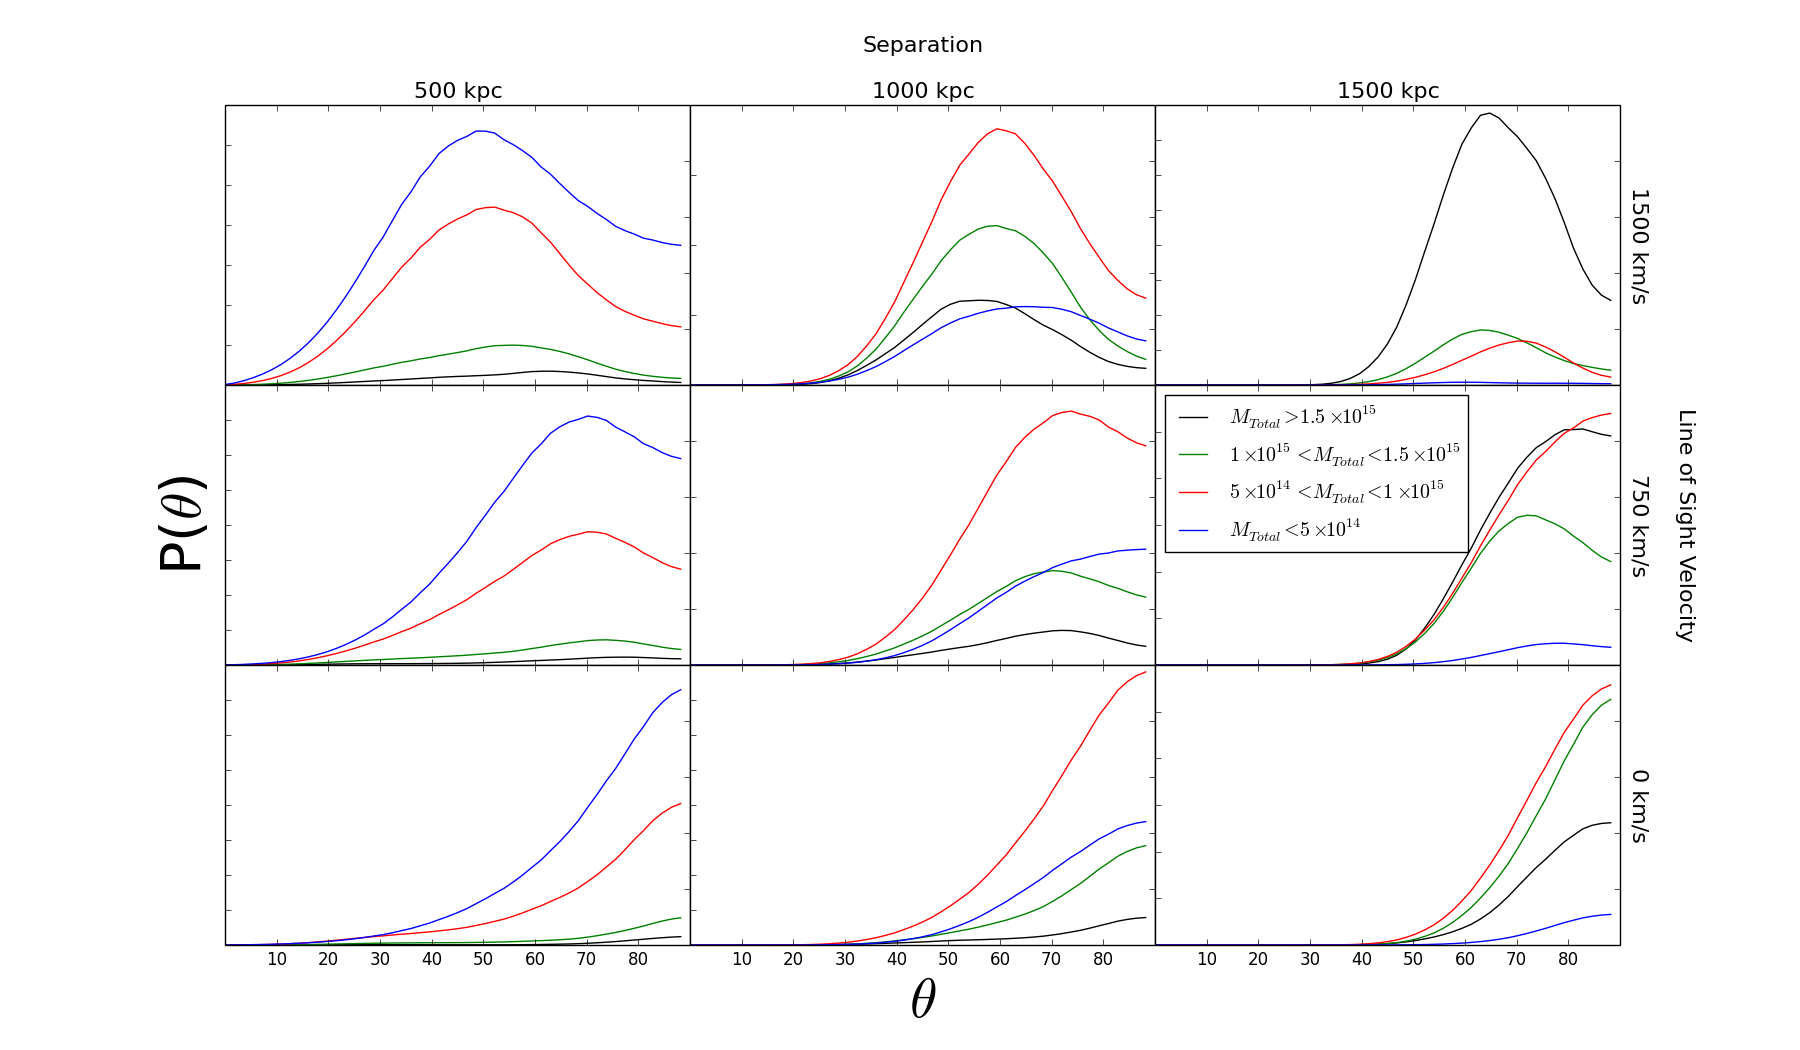
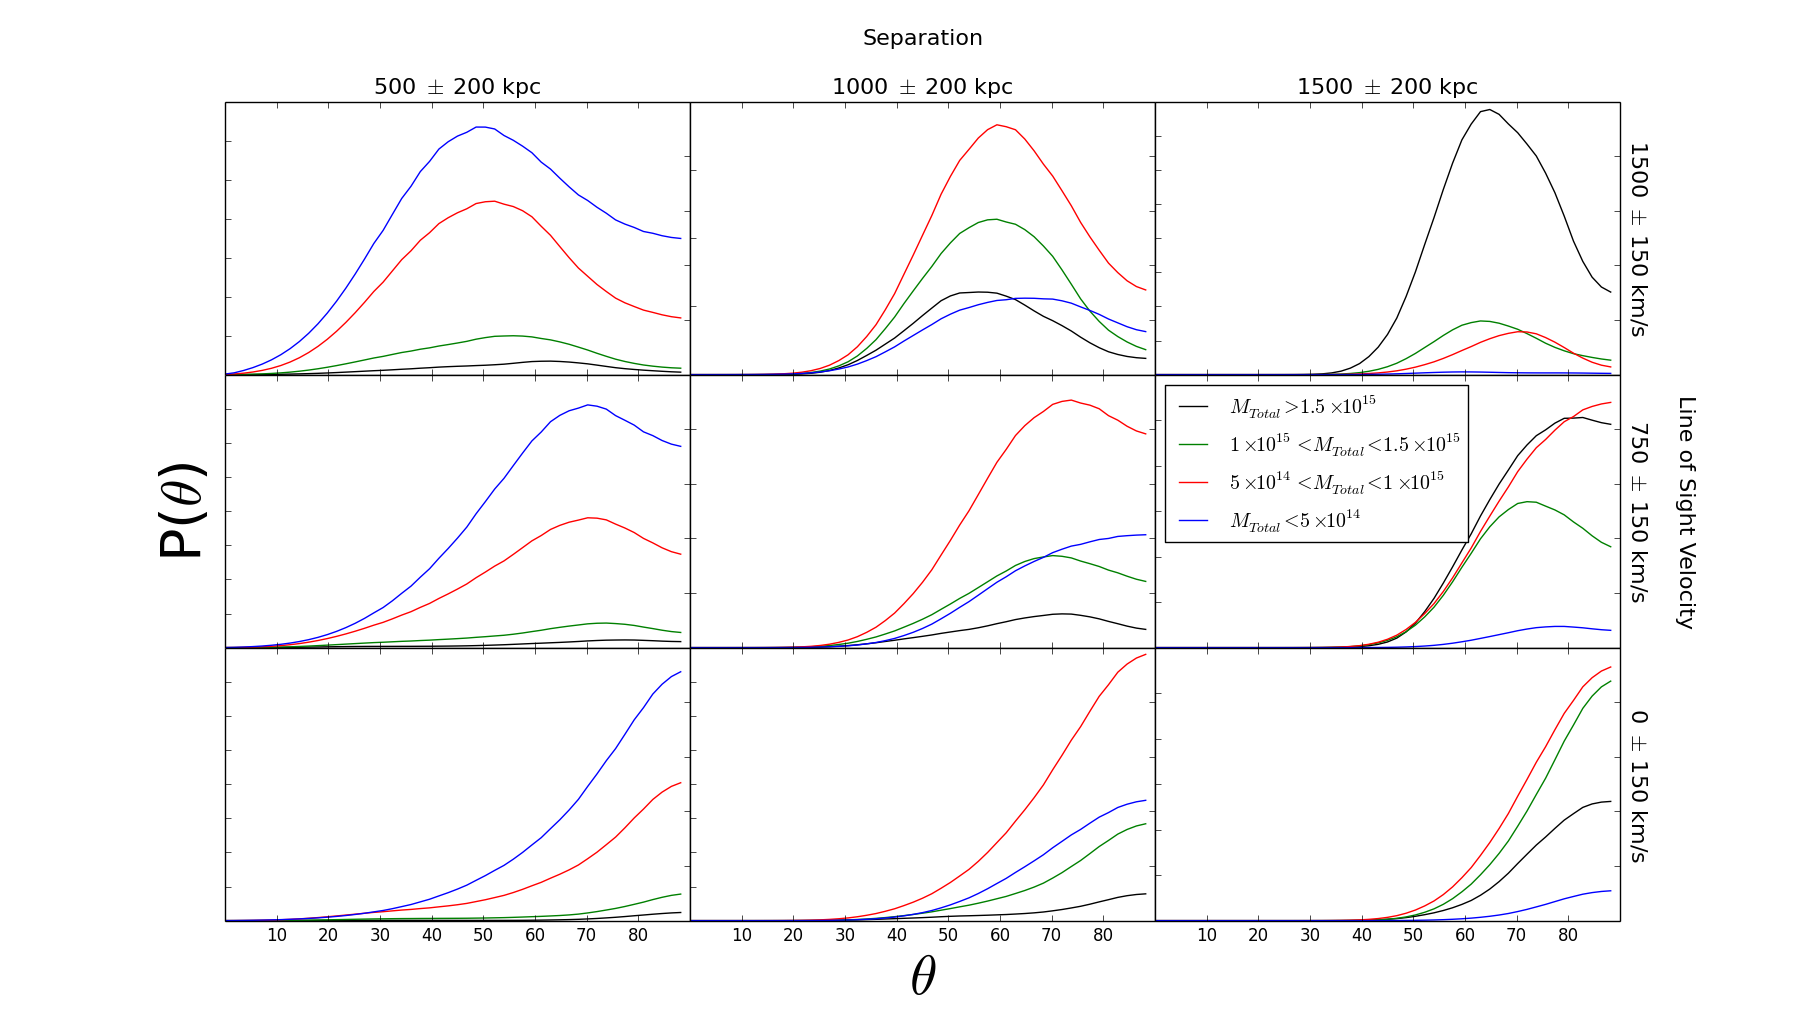
Add error bars

diff --git a/PDFmaker.py b/PDFmaker.py
@@ -232,7 +232,7 @@ if clustercdf == True:
 	axes[1,2].set_title("MACSJ1752")
 	axes[2,0].plot(x,cumulative(RXCJ1314))
 	axes[2,0].set_title("RXCJ1314")
-	axes[2,0].set_ylabel(r'P($\theta$)', fontsize = 40)
+	axes[2,0].set_ylabel('CDF', fontsize = 35)
 	axes[2,1].plot(x,cumulative(ZWCI0008))
 	axes[2,1].set_title("ZWCI0008")
 	axes[2,2].plot(x,cumulative(ZWCI1856))
@@ -352,17 +352,17 @@ if masscut == True:
 			axr[r,c].set_xticklabels([])
 			axr[r,c].set_yticklabels([])
 
-	axr[0,2].set_ylabel('\n\n1500 km/s', rotation = 270, labelpad = 50,fontsize = 16)
-	axr[1,2].set_ylabel('Line of Sight Velocity\n\n750 km/s', rotation = 270, labelpad = 50,fontsize = 16)
-	axr[2,2].set_ylabel('\n\n0 km/s', rotation = 270, labelpad = 50,fontsize = 16)
+	axr[0,2].set_ylabel('\n\n1500' + r' $\pm$ ' + '150 km/s', rotation = 270, labelpad = 50,fontsize = 16)
+	axr[1,2].set_ylabel('Line of Sight Velocity\n\n750' + r' $\pm$ ' + '150 km/s', rotation = 270, labelpad = 50,fontsize = 16)
+	axr[2,2].set_ylabel('\n\n0' + r' $\pm$ ' + '150 km/s', rotation = 270, labelpad = 50,fontsize = 16)
 
 	axl[0,0].set_ylabel('')
 	axl[1,0].set_ylabel(r'P($\theta$)',fontsize = 40)
 	axl[2,0].set_ylabel('')
 	axl[2,1].set_xlabel(r'$\theta$',fontsize = 40)
-	axl[0,0].set_title("\n\n500 kpc",fontsize = 16)
-	axl[0,1].set_title("Separation\n\n1000 kpc",fontsize = 16)
-	axl[0,2].set_title("\n\n1500 kpc",fontsize = 16)
+	axl[0,0].set_title("\n\n500" + r" $\pm$ "+ "200 kpc",fontsize = 16)
+	axl[0,1].set_title("Separation\n\n1000" + r" $\pm$ "+ "200 kpc",fontsize = 16)
+	axl[0,2].set_title("\n\n1500" + r" $\pm$ "+ "200 kpc",fontsize = 16)
 	axl[2,0].set_xticklabels([' ' , '10', '20', '30', '40', '50', '60', '70', '80', ''])
 	axl[2,1].set_xticklabels([' ' , '10', '20', '30', '40', '50', '60', '70', '80', ''])
 	axl[2,2].set_xticklabels([' ' , '10', '20', '30', '40', '50', '60', '70', '80', ''])
@@ -421,17 +421,17 @@ if massbin == True:
 			axr[r,c].set_xticklabels([])
 			axr[r,c].set_yticklabels([])
 
-	axr[0,2].set_ylabel('\n\n1500 km/s', rotation = 270, labelpad = 50,fontsize = 16)
-	axr[1,2].set_ylabel('Line of Sight Velocity\n\n750 km/s', rotation = 270, labelpad = 50,fontsize = 16)
-	axr[2,2].set_ylabel('\n\n0 km/s', rotation = 270, labelpad = 50,fontsize = 16)
+	axr[0,2].set_ylabel('\n\n1500' + r' $\pm$ ' + '150 km/s', rotation = 270, labelpad = 50,fontsize = 16)
+	axr[1,2].set_ylabel('Line of Sight Velocity\n\n750' + r' $\pm$ ' + '150 km/s', rotation = 270, labelpad = 50,fontsize = 16)
+	axr[2,2].set_ylabel('\n\n0' + r' $\pm$ ' + '150 km/s', rotation = 270, labelpad = 50,fontsize = 16)
 
 	axl[0,0].set_ylabel('')
 	axl[1,0].set_ylabel(r'P($\theta$)',fontsize = 40)
 	axl[2,0].set_ylabel('')
 	axl[2,1].set_xlabel(r'$\theta$',fontsize = 40)
-	axl[0,0].set_title("\n\n500 kpc",fontsize = 16)
-	axl[0,1].set_title("Separation\n\n1000 kpc",fontsize = 16)
-	axl[0,2].set_title("\n\n1500 kpc",fontsize = 16)
+	axl[0,0].set_title("\n\n500" + r" $\pm$ "+ "200 kpc",fontsize = 16)
+	axl[0,1].set_title("Separation\n\n1000" + r" $\pm$ "+ "200 kpc",fontsize = 16)
+	axl[0,2].set_title("\n\n1500" + r" $\pm$ "+ "200 kpc",fontsize = 16)
 	axl[2,0].set_xticklabels([' ' , '10', '20', '30', '40', '50', '60', '70', '80', ''])
 	axl[2,1].set_xticklabels([' ' , '10', '20', '30', '40', '50', '60', '70', '80', ''])
 	axl[2,2].set_xticklabels([' ' , '10', '20', '30', '40', '50', '60', '70', '80', ''])
@@ -485,17 +485,17 @@ if pericut == True:
 			axr[r,c].set_xticklabels([])
 			axr[r,c].set_yticklabels([])
 
-	axr[0,2].set_ylabel('\n\n1500 km/s', rotation = 270, labelpad = 50,fontsize = 16)
-	axr[1,2].set_ylabel('Line of Sight Velocity\n\n750 km/s', rotation = 270, labelpad = 50,fontsize = 16)
-	axr[2,2].set_ylabel('\n\n0 km/s', rotation = 270, labelpad = 50,fontsize = 16)
+	axr[0,2].set_ylabel('\n\n1500' + r' $\pm$ ' + '150 km/s', rotation = 270, labelpad = 50,fontsize = 16)
+	axr[1,2].set_ylabel('Line of Sight Velocity\n\n750' + r' $\pm$ ' + '150 km/s', rotation = 270, labelpad = 50,fontsize = 16)
+	axr[2,2].set_ylabel('\n\n0' + r' $\pm$ ' + '150 km/s', rotation = 270, labelpad = 50,fontsize = 16)
 
 	axl[0,0].set_ylabel('')
 	axl[1,0].set_ylabel(r'P($\theta$)',fontsize = 40)
 	axl[2,0].set_ylabel('')
 	axl[2,1].set_xlabel(r'$\theta$',fontsize = 40)
-	axl[0,0].set_title("\n\n500 kpc",fontsize = 16)
-	axl[0,1].set_title("Separation\n\n1000 kpc",fontsize = 16)
-	axl[0,2].set_title("\n\n1500 kpc",fontsize = 16)
+	axl[0,0].set_title("\n\n500" + r" $\pm$ "+ "200 kpc",fontsize = 16)
+	axl[0,1].set_title("Separation\n\n1000" + r" $\pm$ "+ "200 kpc",fontsize = 16)
+	axl[0,2].set_title("\n\n1500" + r" $\pm$ "+ "200 kpc",fontsize = 16)
 	axl[2,0].set_xticklabels([' ' , '10', '20', '30', '40', '50', '60', '70', '80', ''])
 	axl[2,1].set_xticklabels([' ' , '10', '20', '30', '40', '50', '60', '70', '80', ''])
 	axl[2,2].set_xticklabels([' ' , '10', '20', '30', '40', '50', '60', '70', '80', ''])
@@ -552,17 +552,17 @@ if peribin == True:
 			axr[r,c].set_xticklabels([])
 			axr[r,c].set_yticklabels([])
 
-	axr[0,2].set_ylabel('\n\n1500 km/s', rotation = 270, labelpad = 50,fontsize = 16)
-	axr[1,2].set_ylabel('Line of Sight Velocity\n\n750 km/s', rotation = 270, labelpad = 50,fontsize = 16)
-	axr[2,2].set_ylabel('\n\n0 km/s', rotation = 270, labelpad = 50,fontsize = 16)
+	axr[0,2].set_ylabel('\n\n1500' + r' $\pm$ ' + '150 km/s', rotation = 270, labelpad = 50,fontsize = 16)
+	axr[1,2].set_ylabel('Line of Sight Velocity\n\n750' + r' $\pm$ ' + '150 km/s', rotation = 270, labelpad = 50,fontsize = 16)
+	axr[2,2].set_ylabel('\n\n0' + r' $\pm$ ' + '150 km/s', rotation = 270, labelpad = 50,fontsize = 16)
 
 	axl[0,0].set_ylabel('')
 	axl[1,0].set_ylabel(r'P($\theta$)',fontsize = 40)
 	axl[2,0].set_ylabel('')
 	axl[2,1].set_xlabel(r'$\theta$',fontsize = 40)
-	axl[0,0].set_title("\n\n500 kpc",fontsize = 16)
-	axl[0,1].set_title("Separation\n\n1000 kpc",fontsize = 16)
-	axl[0,2].set_title("\n\n1500 kpc",fontsize = 16)
+	axl[0,0].set_title("\n\n500" + r" $\pm$ "+ "200 kpc",fontsize = 16)
+	axl[0,1].set_title("Separation\n\n1000" + r" $\pm$ "+ "200 kpc",fontsize = 16)
+	axl[0,2].set_title("\n\n1500" + r" $\pm$ "+ "200 kpc",fontsize = 16)
 	axl[2,0].set_xticklabels([' ' , '10', '20', '30', '40', '50', '60', '70', '80', ''])
 	axl[2,1].set_xticklabels([' ' , '10', '20', '30', '40', '50', '60', '70', '80', ''])
 	axl[2,2].set_xticklabels([' ' , '10', '20', '30', '40', '50', '60', '70', '80', ''])
